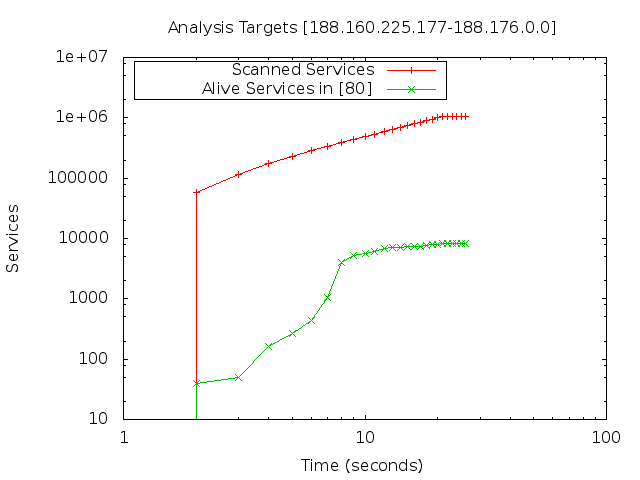
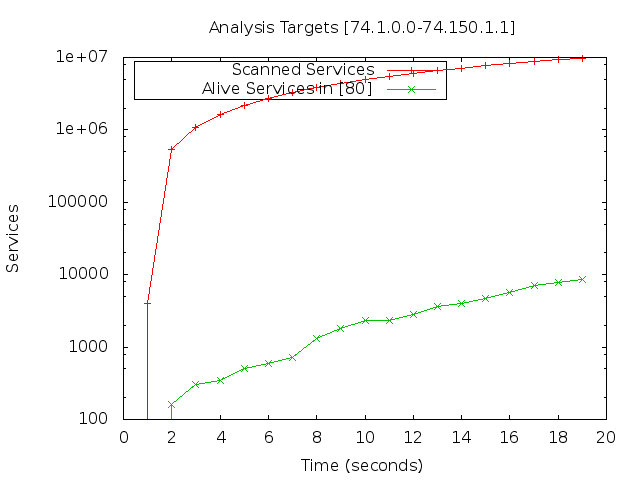
work

diff --git a/index.html b/index.html
@@ -53,7 +53,7 @@
 <div style="display:table-cell; vertical-align:middle; text-align:center">
 <a href="./images/ninjapinguplot.png"><img src="./images/ninjapinguplot.png" width=90%/></a>
 </div>
-<p align="justify"> The previous chart corresponds to a 24 seconds analysis, where +1 million hosts were scanned and +8 thousand services identified.</p>
+<p align="justify"> The previous chart corresponds to a 17 seconds analysis in a 100mbps network, where 10 million hosts were scanned and 11 thousand services identified.i The analysis average speed was higher than half million hosts scanned per second. </p>
 <br>
 <br>
 
